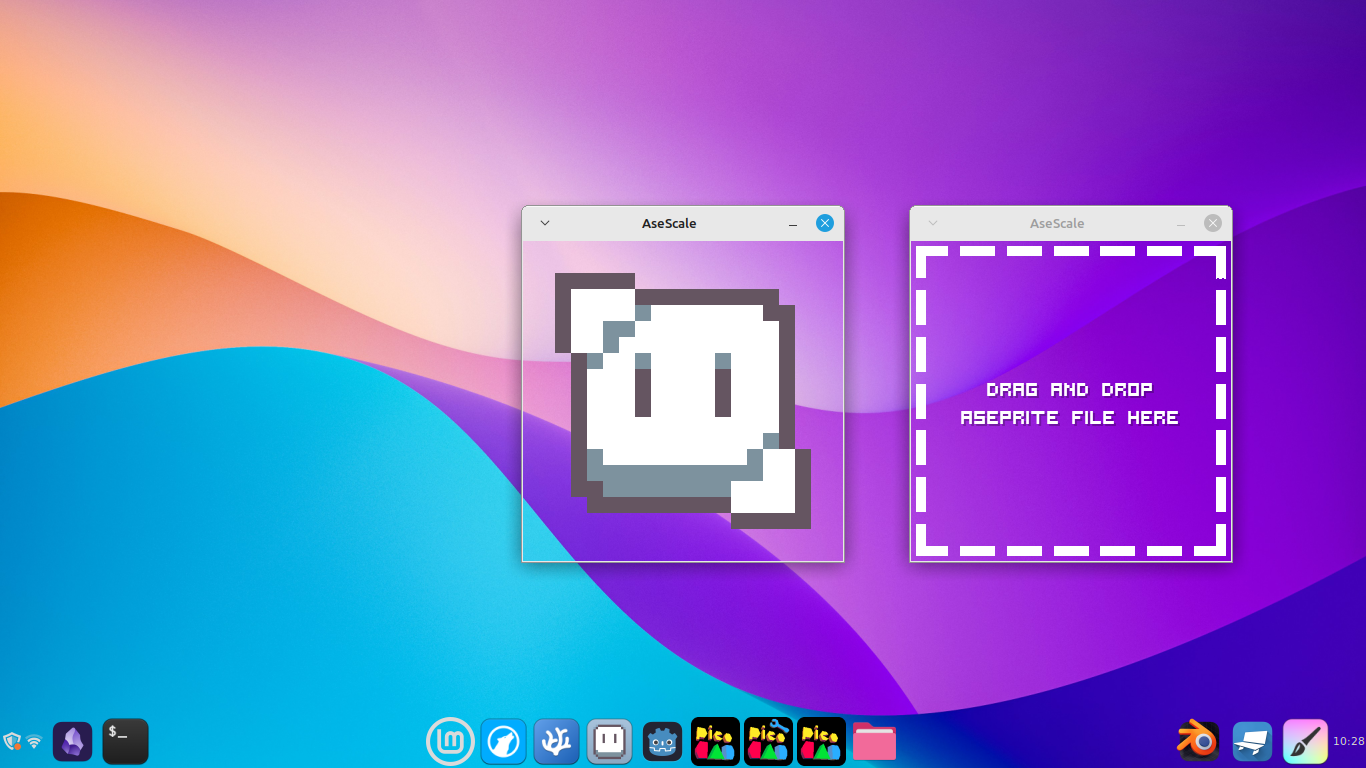
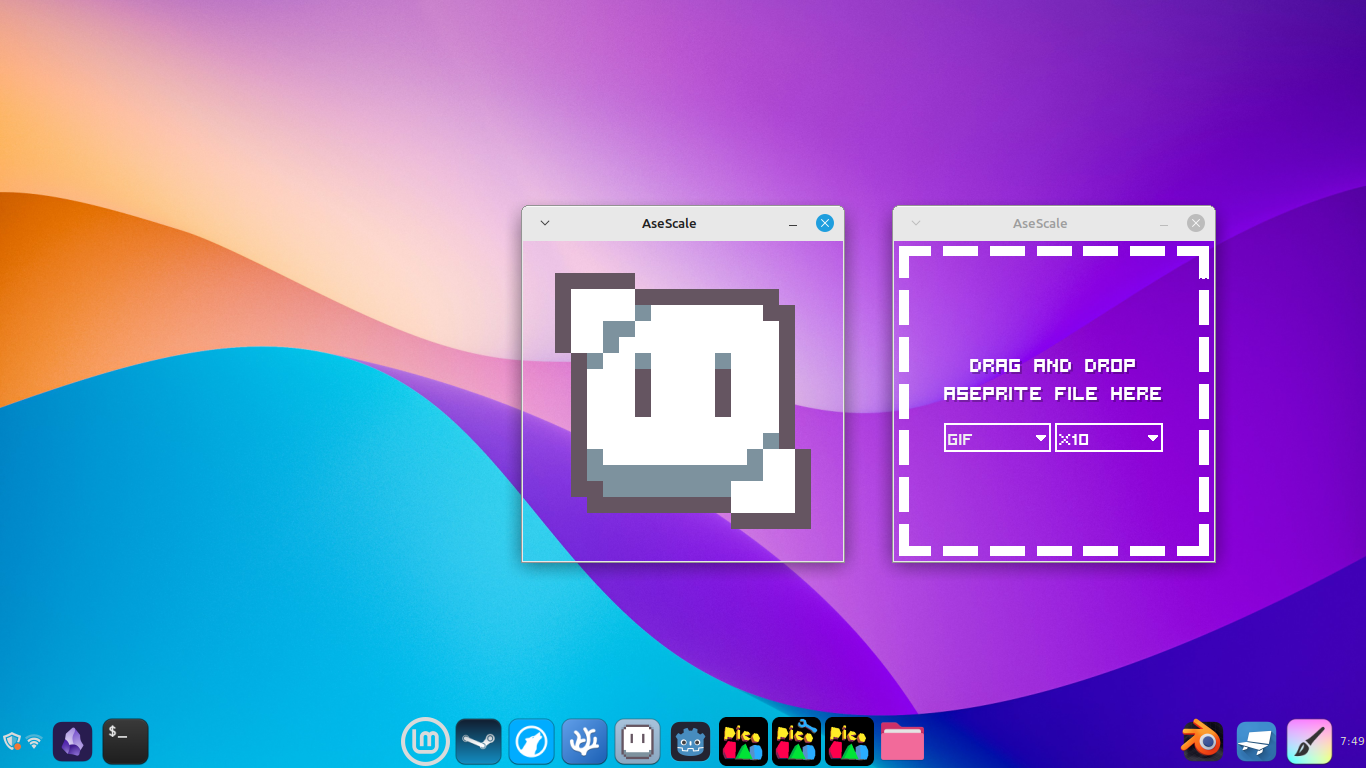
Added GIF export, and both format and scales options

Changed region(s): [[0.6457, 0.25, 0.9224, 0.75], [0.2767, 0.9375, 0.6764, 1.0], [0.8609, 0.9375, 1.0, 1.0]]

diff --git a/README.md b/README.md
@@ -1,6 +1,6 @@
 # AseScale
 Automates export of Aseprite files in different scales.  
-It currently supports `.png` format, and exports from x2 to x10 scales only.
+Supports `PNG` and `GIF` formats, and exports from x1 to x10 scales.
 
 ![preview of 'on start' and 'running' app](/preview.png)
 
@@ -8,12 +8,19 @@ It currently supports `.png` format, and exports from x2 to x10 scales only.
 > You need Aseprite installed to your system in order for this to work.
 
 ## Usage
-Simply drag and drop an Aseprite file, and the files will be exported on `~/Documents/AseScale` folder.
+Choose your preferred format and scales first.  
+Then, drag and drop **an* Aseprite file, and the files will be exported on `~/Documents/AseScale` folder.
+
+> [!IMPORTANT]  
+> *Drop 1 file at a time only. Multiple files at once isn't supported.
 
 ## Testing
-There's a `Test/test_smug.aseprite` you can test and it should generate the following:
+There's a `Test/test_smug.aseprite` you can test with the `PNG` *format option* and it should generate the following:
 
 ![preview of exported files](/export_test.png)
+
+> [!NOTE]  
+> Only at source. Not included in export builds.
 
 ## Docs
 The program uses the following functions in order to work.
@@ -34,8 +41,8 @@ The program uses the following functions in order to work.
     - Example: `aseprite -b amogus.png --scale 4 --save-as amogus_x4.png`
 
 ## To-do
-- [ ] Add `.gif` format
-- [ ] Add scale options
+- [x] Add `.gif` format
+- [x] Add scale options
 
 ## License
 ### AseScale
